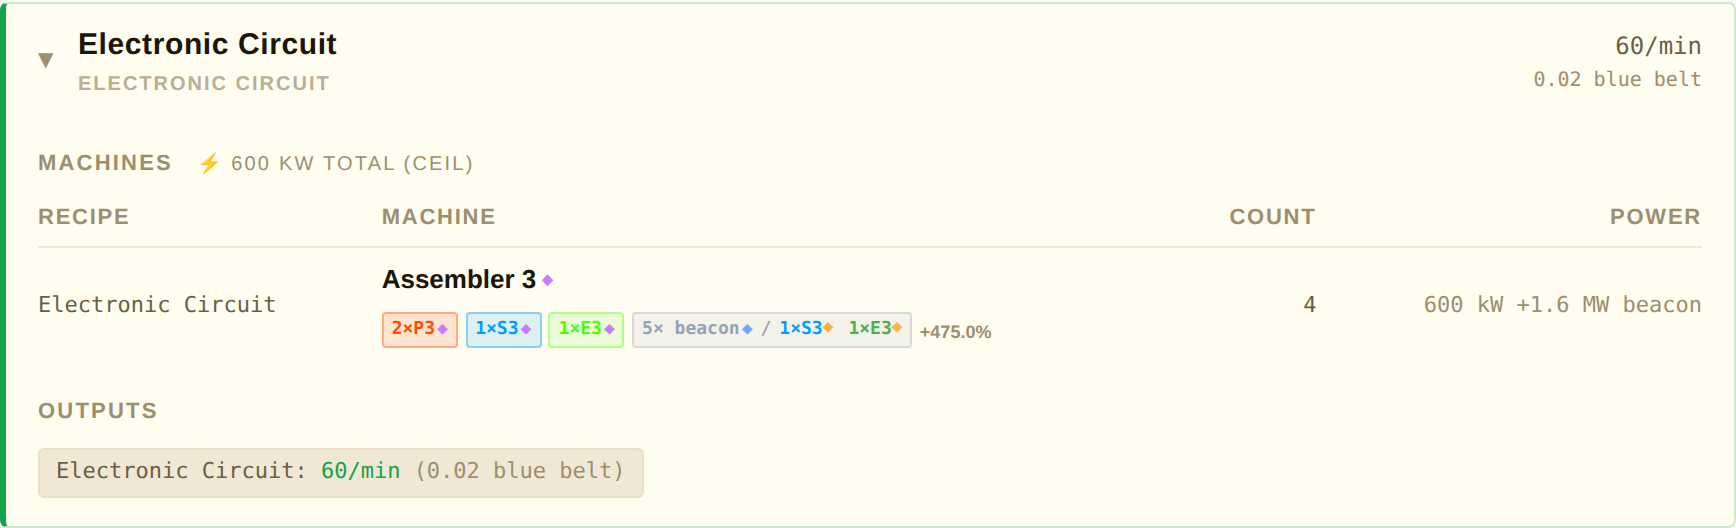
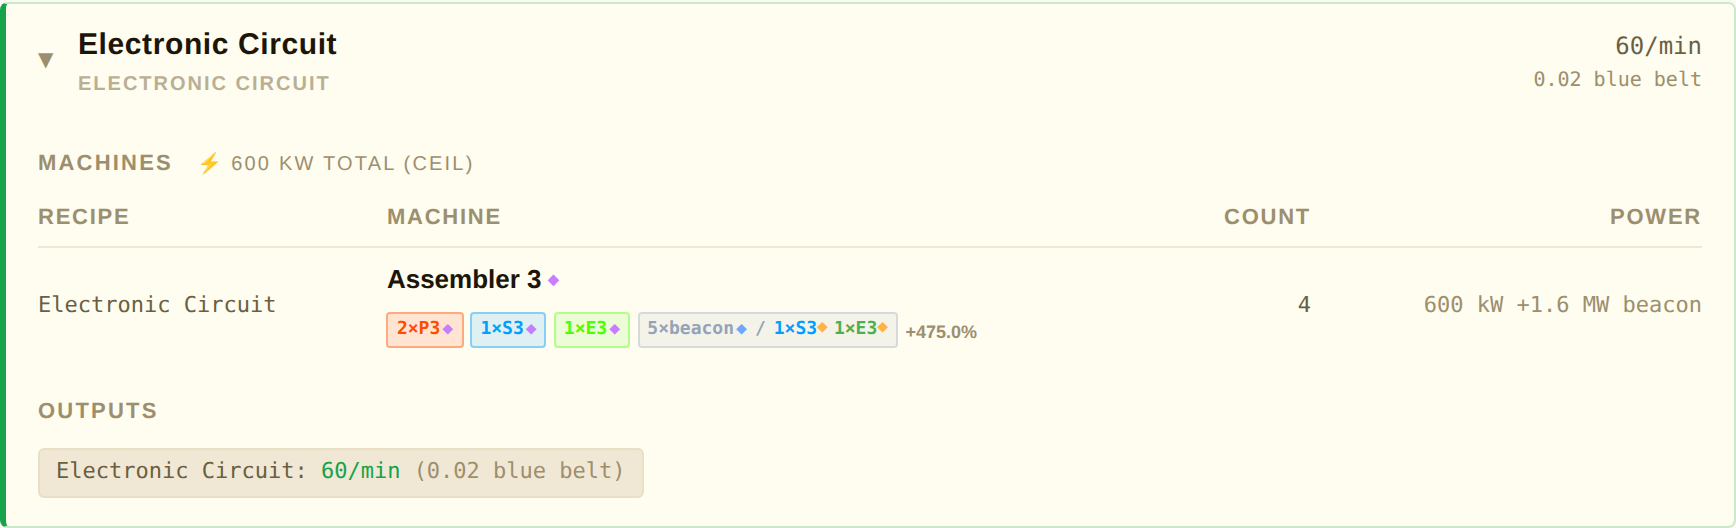
Unify beacon chip spacing with module chip conventions
- Remove space between × and beacon (was "4× beacon", now "4×beacon") to match
  module chip style (e.g. "4×P3")
- Wrap beacon module spans in inline-flex with gap:3px so spacing between
  module specs (e.g. "1×S3 1×E3") matches the visual weight of machine module chips
- Regenerate all 30 quality combination screenshots

https://claude.ai/code/session_01SyKx24fZjBrdm6oV2dN8BW

diff --git a/dev/dashboard.html b/dev/dashboard.html
@@ -637,8 +637,8 @@ function bcnChip(b, housingQ) {
     const color = {speed: '#009FFF', efficiency: '#4CAF50'}[m.type] ?? '#aaa';
     const qdot  = m.quality !== 'normal' ? `<span class="qdot q-${m.quality}">◆</span>` : '';
     return `<span style="color:${color}">${m.count}×${abbr}${m.tier}${qdot}</span>`;
-  }).join('\u00a0');
-  return `<span class="bcn-chip">${b.count}× beacon${houseDot}<span class="bcn-sep">/</span>${modsHtml}</span>`;
+  }).join('');
+  return `<span class="bcn-chip">${b.count}×beacon${houseDot}<span class="bcn-sep">/</span><span style="display:inline-flex;align-items:center;gap:3px">${modsHtml}</span></span>`;
 }
 
 // ── State ────────────────────────────────────────────────────────────────────
